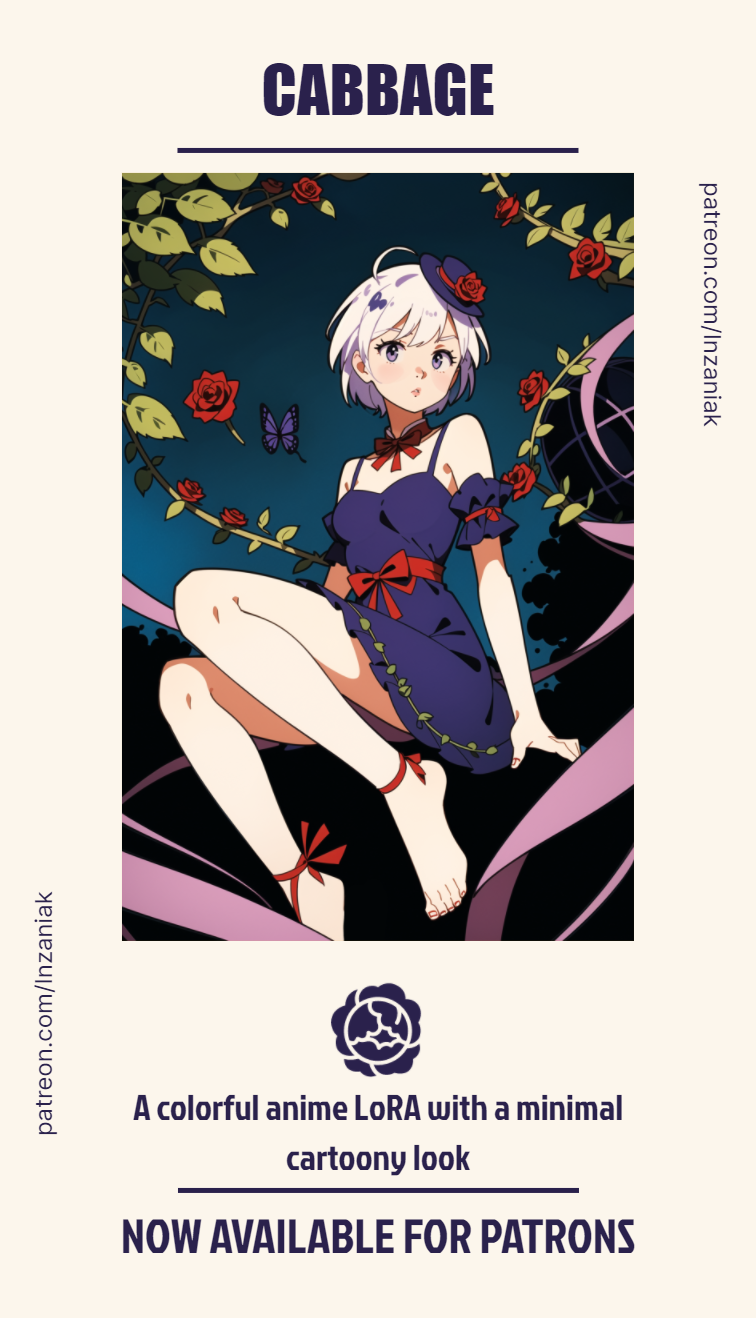
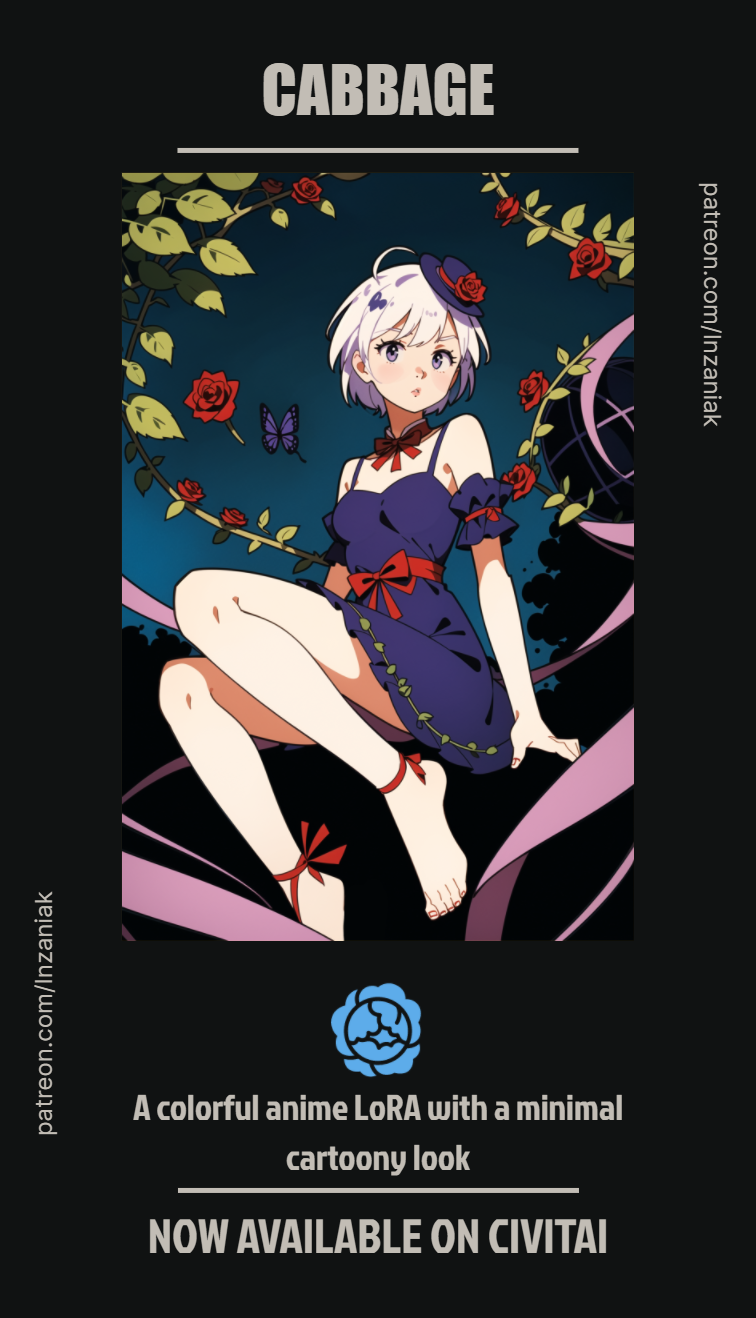
Updated LoRAs

diff --git a/catalog.html b/catalog.html
@@ -328,7 +328,7 @@
     </a>
 </div>
 <div class="col-md-3 col-sm-6 col-padding text-center animate-box">
-    <a href="http://www.patreon.com/posts/cabbage-lora-90596495" class="work image-popup"
+    <a href="https://civitai.com/models/193520" class="work image-popup"
         style="background-image: url(catalog/cabbage.webp); height: 439px; width: 252px;">
         <div class="desc">
             <!-- Headings black font with white border -->
@@ -388,6 +388,16 @@
     </a>
 </div>
 <div class="col-md-3 col-sm-6 col-padding text-center animate-box">
+    <a href="http://www.patreon.com/posts/cinnamon-lora-91625427" class="work image-popup"
+        style="background-image: url(catalog/cinnamon.webp); height: 439px; width: 252px;">
+        <div class="desc">
+            <!-- Headings black font with white border -->
+            <h1 style="color: black; -webkit-text-stroke: 1px white;">Cinnamon</h3>
+            <h2 style="color: black; -webkit-text-stroke: 1px white;">LORA</h4>
+        </div>
+    </a>
+</div>
+<div class="col-md-3 col-sm-6 col-padding text-center animate-box">
     <a href="https://civitai.com/models/28900" class="work image-popup"
         style="background-image: url(catalog/clouds.webp); height: 439px; width: 252px;">
         <div class="desc">
@@ -433,6 +443,16 @@
         <div class="desc">
             <!-- Headings black font with white border -->
             <h1 style="color: black; -webkit-text-stroke: 1px white;">Contact</h3>
+            <h2 style="color: black; -webkit-text-stroke: 1px white;">LORA</h4>
+        </div>
+    </a>
+</div>
+<div class="col-md-3 col-sm-6 col-padding text-center animate-box">
+    <a href="http://www.patreon.com/posts/corn-lora-early-92377756" class="work image-popup"
+        style="background-image: url(catalog/corn.webp); height: 439px; width: 252px;">
+        <div class="desc">
+            <!-- Headings black font with white border -->
+            <h1 style="color: black; -webkit-text-stroke: 1px white;">Corn</h3>
             <h2 style="color: black; -webkit-text-stroke: 1px white;">LORA</h4>
         </div>
     </a>
@@ -588,6 +608,16 @@
     </a>
 </div>
 <div class="col-md-3 col-sm-6 col-padding text-center animate-box">
+    <a href="http://www.patreon.com/posts/jams-lora-lab-92575471" class="work image-popup"
+        style="background-image: url(catalog/jams.webp); height: 439px; width: 252px;">
+        <div class="desc">
+            <!-- Headings black font with white border -->
+            <h1 style="color: black; -webkit-text-stroke: 1px white;">Jams</h3>
+            <h2 style="color: black; -webkit-text-stroke: 1px white;">LORA</h4>
+        </div>
+    </a>
+</div>
+<div class="col-md-3 col-sm-6 col-padding text-center animate-box">
     <a href="https://civitai.com/models/103720" class="work image-popup"
         style="background-image: url(catalog/kiwi.webp); height: 439px; width: 252px;">
         <div class="desc">
@@ -738,6 +768,16 @@
     </a>
 </div>
 <div class="col-md-3 col-sm-6 col-padding text-center animate-box">
+    <a href="http://www.patreon.com/posts/pepper-lora-91865773" class="work image-popup"
+        style="background-image: url(catalog/pepper.webp); height: 439px; width: 252px;">
+        <div class="desc">
+            <!-- Headings black font with white border -->
+            <h1 style="color: black; -webkit-text-stroke: 1px white;">Pepper</h3>
+            <h2 style="color: black; -webkit-text-stroke: 1px white;">LORA</h4>
+        </div>
+    </a>
+</div>
+<div class="col-md-3 col-sm-6 col-padding text-center animate-box">
     <a href="https://civitai.com/models/131666" class="work image-popup"
         style="background-image: url(catalog/pineapple.webp); height: 439px; width: 252px;">
         <div class="desc">
@@ -858,11 +898,21 @@
     </a>
 </div>
 <div class="col-md-3 col-sm-6 col-padding text-center animate-box">
-    <a href="https://civitai.com/models/75867" class="work image-popup"
+    <a href="http://www.patreon.com/posts/saggy-loha-early-82846029" class="work image-popup"
         style="background-image: url(catalog/saggy.webp); height: 439px; width: 252px;">
         <div class="desc">
             <!-- Headings black font with white border -->
             <h1 style="color: black; -webkit-text-stroke: 1px white;">Saggy</h3>
+            <h2 style="color: black; -webkit-text-stroke: 1px white;">LORA</h4>
+        </div>
+    </a>
+</div>
+<div class="col-md-3 col-sm-6 col-padding text-center animate-box">
+    <a href="http://www.patreon.com/posts/salt-lora-early-92180248" class="work image-popup"
+        style="background-image: url(catalog/salt.webp); height: 439px; width: 252px;">
+        <div class="desc">
+            <!-- Headings black font with white border -->
+            <h1 style="color: black; -webkit-text-stroke: 1px white;">Salt</h3>
             <h2 style="color: black; -webkit-text-stroke: 1px white;">LORA</h4>
         </div>
     </a>
